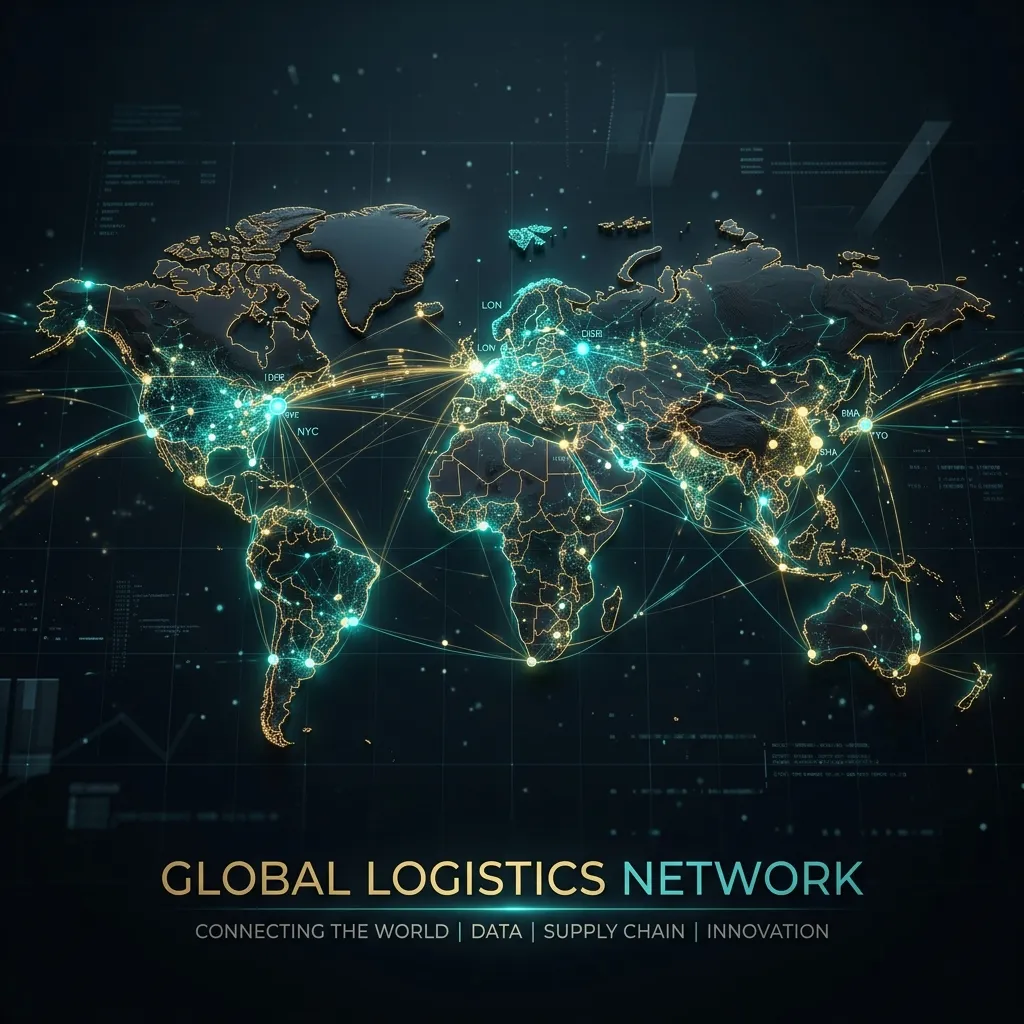
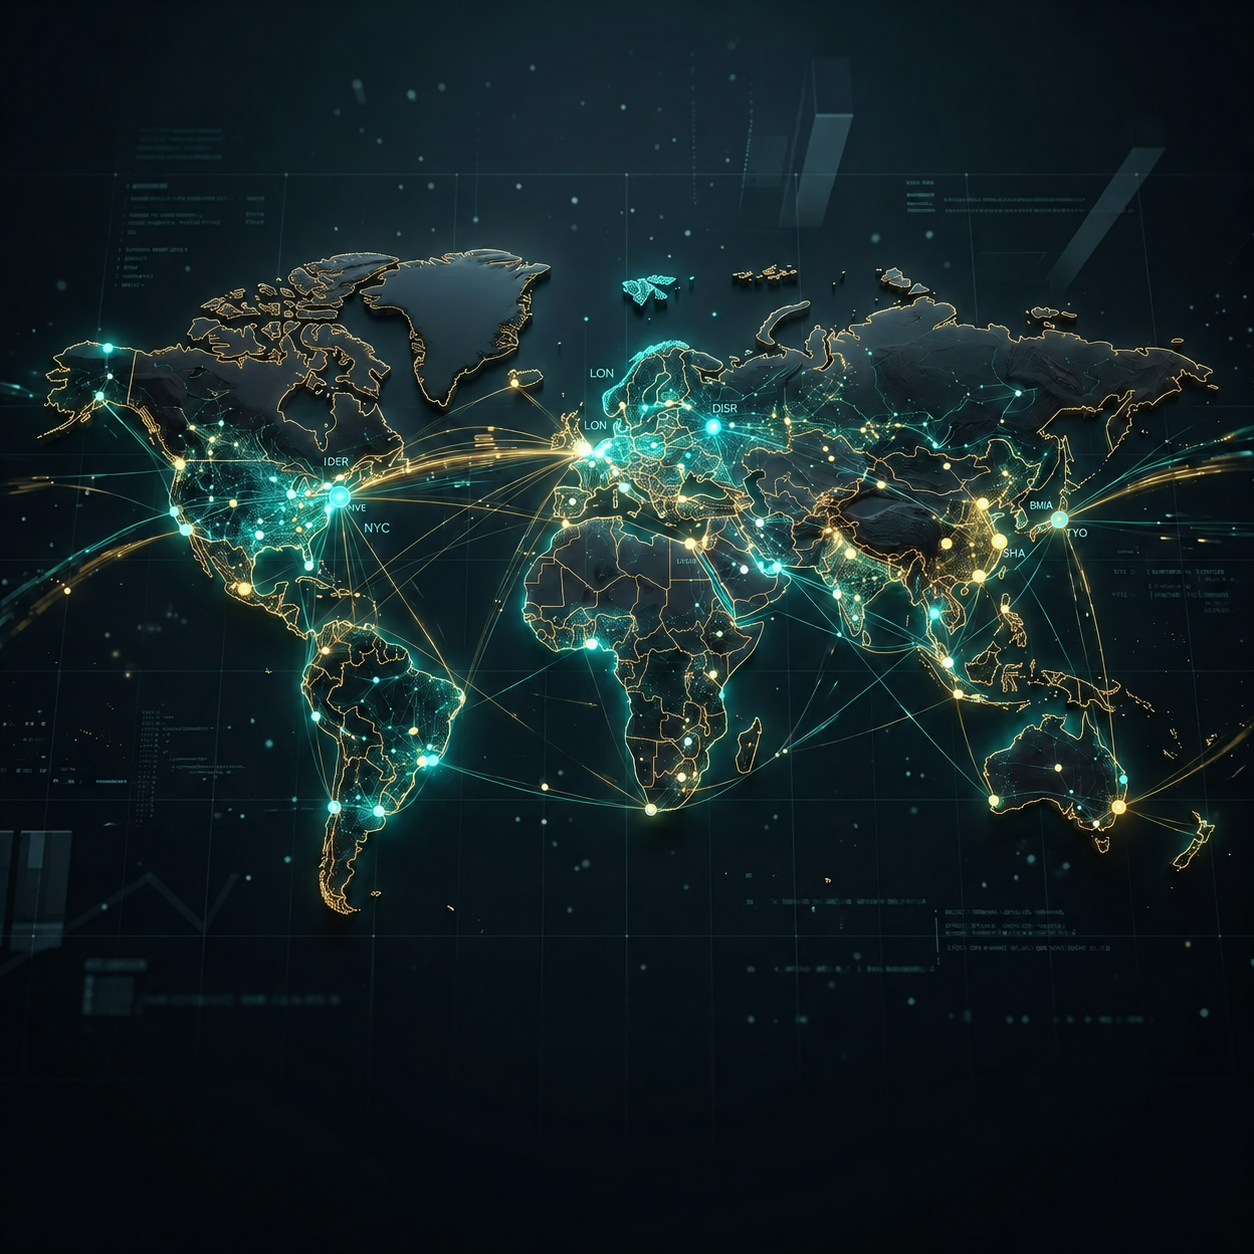
nn

diff --git a/about.html b/about.html
@@ -42,13 +42,13 @@
                 <i class="fa-solid fa-bars fs-3"></i>
             </button>
             <div class="collapse navbar-collapse" id="navbarResponsive">
-                <ul class="navbar-nav ms-auto text-uppercase py-3 py-lg-0 align-items-lg-center">
+                <ul class="navbar-nav ms-lg-4 ms-xl-5 me-auto text-uppercase py-3 py-lg-0 align-items-lg-center">
                     <li class="nav-item"><a class="nav-link" href="index.html#home" data-i18n="nav_home">Home</a></li>
                     <li class="nav-item"><a class="nav-link active" href="about.html" data-i18n="nav_about">About</a></li>
                     <li class="nav-item"><a class="nav-link" href="services.html" data-i18n="nav_services">Services</a></li>
                 </ul>
 
-                <div class="nav-actions-container d-flex flex-column flex-lg-row align-items-lg-center gap-2 mt-3 mt-lg-0 ms-lg-3">
+                <div class="nav-actions-container d-flex flex-column flex-lg-row align-items-lg-center gap-2 mt-3 mt-lg-0 ms-lg-auto">
                     <!-- Search Trigger -->
                     <a href="#" class="nav-action-btn search-trigger" title="Search">
                         <i class="fa-solid fa-magnifying-glass me-1 text-gold"></i>
@@ -119,8 +119,8 @@
     <!-- Company Overview -->
     <section class="py-5 my-4">
         <div class="container">
-            <div class="row align-items-center g-5">
-                <div class="col-lg-6 pe-lg-4">
+            <div class="row align-items-center g-5 gx-lg-5">
+                <div class="col-lg-6 pe-lg-5">
                     <h6 class="text-gold fw-bold text-uppercase tracking-wide mb-2" data-i18n="story_tag">Our Story</h6>
                     <h2 class="display-5 fw-bold text-teal mb-4" data-i18n="story_title">A Legacy of Maritime Excellence</h2>
                     <p class="text-muted fs-5 mb-4" data-i18n="story_p1">
@@ -132,9 +132,9 @@
 
                     <!-- Founder Quote Card with Photo -->
                     <div class="founder-quote-card d-flex flex-column flex-sm-row align-items-center gap-4 p-4 rounded-4 shadow-sm mt-4">
-                        <img src="assets/images/founder_yani.webp" alt="Yani Elviani, Founder & Director"
+                        <img src="img/profilYani.png" alt="Yani Elviani, Founder & Director"
                             class="rounded-3 shadow-sm object-fit-cover flex-shrink-0"
-                            style="width: 100px; height: 120px; object-position: top;">
+                            style="width: 105px; height: 125px; object-position: center;">
                         <div>
                             <p class="mb-2 text-dark fst-italic fw-medium" style="font-size: 0.95rem;" data-i18n="founder_quote">
                                 "PT. Garuda Mas Shipping build trust through precision, acting as a strategic partner for your international business growth."
@@ -146,9 +146,9 @@
                     </div>
                 </div>
 
-                <div class="col-lg-6 ps-lg-4">
+                <div class="col-lg-6 ps-lg-5 mt-5 mt-lg-0">
                     <div class="position-relative p-2 p-md-3">
-                        <div class="position-absolute top-0 end-0 w-75 h-100 bg-teal rounded-4 opacity-10 translate-middle-x mt-4 z-0"></div>
+                        <div class="position-absolute bottom-0 end-0 w-100 h-100 bg-teal rounded-4 opacity-10 z-0" style="transform: translate(12px, 12px);"></div>
                         <img src="assets/images/about_map_1778153520044.webp" alt="Garuda Mas Shipping Operations"
                             class="img-fluid rounded-4 shadow-lg position-relative z-1 w-100 object-fit-cover"
                             style="height: 460px;" loading="lazy" decoding="async">
@@ -223,9 +223,9 @@
                         <div class="stat-card-line position-absolute top-0 start-0 w-100 bg-gold transition-all"
                             style="height: 3px; transform: scaleX(0); transform-origin: center;"></div>
                         
-                        <!-- ISO Badge Seal -->
+                        <!-- ISO Badge Seal Image -->
                         <div class="iso-badge-box">
-                            <i class="fa-solid fa-award text-gold fs-2"></i>
+                            <img src="img/iso.jpg" alt="ISO 9001 Certified">
                         </div>
                         <h3 class="display-5 fw-bold text-white mb-1">ISO</h3>
                         <p class="text-gold text-uppercase tracking-wider fw-bold small mb-3" data-i18n="reach_iso">ISO 9001</p>
@@ -239,54 +239,6 @@
                         class="btn btn-outline-light btn-lg rounded-pill px-5 py-3 fw-bold text-uppercase tracking-wide border-2 hover-bg-gold transition-all"
                         style="transition: all 0.3s ease;" data-i18n="btn_partner">Partner With Us <i
                             class="fa-solid fa-arrow-right ms-2"></i></a>
-                </div>
-            </div>
-        </div>
-    </section>
-
-    <!-- Connected Nationwide / Google Maps Section -->
-    <section class="nationwide-map-section py-5 my-4" id="branches">
-        <div class="container py-4">
-            <div class="text-center mb-4" data-aos="fade-up">
-                <h6 class="text-gold fw-bold text-uppercase tracking-wide mb-2" data-i18n="nationwide_tag">Head Office & Branches</h6>
-                <h2 class="display-5 fw-bold text-teal mb-3" data-i18n="nationwide_title">Connected Nationwide</h2>
-                <p class="text-muted max-w-700 mx-auto fs-6" data-i18n="nationwide_desc">
-                    With our head office in Jakarta and branches across key cities, Garuda Mas Shipping is positioned to support your operations wherever you do business.
-                </p>
-                
-                <!-- Pill Switcher -->
-                <div class="location-pill-nav mt-4" role="tablist">
-                    <button class="location-pill-btn active" data-location="jakarta" type="button">
-                        <i class="fa-solid fa-building me-2"></i>Jakarta (HQ)
-                    </button>
-                    <button class="location-pill-btn" data-location="medan" type="button">
-                        <i class="fa-solid fa-location-dot me-2"></i>Medan
-                    </button>
-                </div>
-            </div>
-
-            <div class="row justify-content-center mt-4">
-                <div class="col-12" data-aos="zoom-in">
-                    <div class="map-container-card position-relative">
-                        <iframe id="nationwideMapIframe" class="map-iframe"
-                            src="https://maps.google.com/maps?q=Galeri%20Niaga%20Mediterania%20II%20Pantai%20Indah%20Kapuk%20Jakarta&t=&z=15&ie=UTF8&iwloc=&output=embed"
-                            allowfullscreen="" loading="lazy" referrerpolicy="no-referrer-when-downgrade">
-                        </iframe>
-
-                        <div class="map-location-overlay position-absolute bottom-0 start-0 m-3 m-md-4 p-3 p-md-4 d-flex flex-column flex-md-row align-items-start align-items-md-center justify-content-between gap-3"
-                            style="max-width: 90%; width: 550px;">
-                            <div>
-                                <h6 class="text-teal fw-bold mb-1" id="mapLocationTitle">Jakarta Head Office (HQ)</h6>
-                                <p class="text-muted small mb-0" id="mapLocationAddress">
-                                    Galeri Niaga Mediterania II, Jl. Pantai Indah Utara 2 Blok J8 L, North Jakarta 14460
-                                </p>
-                            </div>
-                            <a id="mapExternalLink" href="https://maps.app.goo.gl/EW4m8V6uoxpQNSDp7" target="_blank" rel="noopener noreferrer"
-                                class="btn btn-sm btn-gold text-nowrap rounded-pill px-3 py-2 fw-semibold">
-                                <i class="fa-solid fa-arrow-up-right-from-square me-1"></i> <span data-i18n="btn_open_maps">Open in Google Maps</span>
-                            </a>
-                        </div>
-                    </div>
                 </div>
             </div>
         </div>

diff --git a/vision-mission.html b/vision-mission.html
@@ -167,13 +167,13 @@
                 <i class="fa-solid fa-bars fs-3"></i>
             </button>
             <div class="collapse navbar-collapse" id="navbarResponsive">
-                <ul class="navbar-nav ms-auto text-uppercase py-3 py-lg-0 align-items-lg-center">
+                <ul class="navbar-nav ms-lg-4 ms-xl-5 me-auto text-uppercase py-3 py-lg-0 align-items-lg-center">
                     <li class="nav-item"><a class="nav-link" href="index.html#home" data-i18n="nav_home">Home</a></li>
                     <li class="nav-item"><a class="nav-link" href="about.html" data-i18n="nav_about">About</a></li>
                     <li class="nav-item"><a class="nav-link" href="services.html" data-i18n="nav_services">Services</a></li>
                 </ul>
 
-                <div class="nav-actions-container d-flex flex-column flex-lg-row align-items-lg-center gap-2 mt-3 mt-lg-0 ms-lg-3">
+                <div class="nav-actions-container d-flex flex-column flex-lg-row align-items-lg-center gap-2 mt-3 mt-lg-0 ms-lg-auto">
                     <!-- Search Trigger -->
                     <a href="#" class="nav-action-btn search-trigger" title="Search">
                         <i class="fa-solid fa-magnifying-glass me-1 text-gold"></i>
@@ -351,52 +351,6 @@
                             style="bottom: -20px; left: -20px; width: 120px; height: 120px; display: flex; align-items: center; justify-content: center; flex-direction: column;">
                             <i class="fa-solid fa-star fs-3 mb-1"></i>
                             <span class="fw-bold small text-uppercase">Trusted</span>
-                        </div>
-                    </div>
-                </div>
-            </div>
-        </div>
-    <!-- Connected Nationwide / Google Maps Section -->
-    <section class="nationwide-map-section py-5 my-4" id="branches">
-        <div class="container py-4">
-            <div class="text-center mb-4" data-aos="fade-up">
-                <h6 class="text-gold fw-bold text-uppercase tracking-wide mb-2" data-i18n="nationwide_tag">Head Office & Branches</h6>
-                <h2 class="display-5 fw-bold text-teal mb-3" data-i18n="nationwide_title">Connected Nationwide</h2>
-                <p class="text-muted max-w-700 mx-auto fs-6" data-i18n="nationwide_desc">
-                    With our head office in Jakarta and branches across key cities, Garuda Mas Shipping is positioned to support your operations wherever you do business.
-                </p>
-                
-                <!-- Pill Switcher -->
-                <div class="location-pill-nav mt-4" role="tablist">
-                    <button class="location-pill-btn active" data-location="jakarta" type="button">
-                        <i class="fa-solid fa-building me-2"></i>Jakarta (HQ)
-                    </button>
-                    <button class="location-pill-btn" data-location="medan" type="button">
-                        <i class="fa-solid fa-location-dot me-2"></i>Medan
-                    </button>
-                </div>
-            </div>
-
-            <div class="row justify-content-center mt-4">
-                <div class="col-12" data-aos="zoom-in">
-                    <div class="map-container-card position-relative">
-                        <iframe id="nationwideMapIframe" class="map-iframe"
-                            src="https://maps.google.com/maps?q=Galeri%20Niaga%20Mediterania%20II%20Pantai%20Indah%20Kapuk%20Jakarta&t=&z=15&ie=UTF8&iwloc=&output=embed"
-                            allowfullscreen="" loading="lazy" referrerpolicy="no-referrer-when-downgrade">
-                        </iframe>
-
-                        <div class="map-location-overlay position-absolute bottom-0 start-0 m-3 m-md-4 p-3 p-md-4 d-flex flex-column flex-md-row align-items-start align-items-md-center justify-content-between gap-3"
-                            style="max-width: 90%; width: 550px;">
-                            <div>
-                                <h6 class="text-teal fw-bold mb-1" id="mapLocationTitle">Jakarta Head Office (HQ)</h6>
-                                <p class="text-muted small mb-0" id="mapLocationAddress">
-                                    Galeri Niaga Mediterania II, Jl. Pantai Indah Utara 2 Blok J8 L, North Jakarta 14460
-                                </p>
-                            </div>
-                            <a id="mapExternalLink" href="https://maps.app.goo.gl/EW4m8V6uoxpQNSDp7" target="_blank" rel="noopener noreferrer"
-                                class="btn btn-sm btn-gold text-nowrap rounded-pill px-3 py-2 fw-semibold">
-                                <i class="fa-solid fa-arrow-up-right-from-square me-1"></i> <span data-i18n="btn_open_maps">Open in Google Maps</span>
-                            </a>
                         </div>
                     </div>
                 </div>

diff --git a/services.html b/services.html
@@ -163,13 +163,13 @@
                 <i class="fa-solid fa-bars fs-3"></i>
             </button>
             <div class="collapse navbar-collapse" id="navbarResponsive">
-                <ul class="navbar-nav ms-auto text-uppercase py-3 py-lg-0 align-items-lg-center">
+                <ul class="navbar-nav ms-lg-4 ms-xl-5 me-auto text-uppercase py-3 py-lg-0 align-items-lg-center">
                     <li class="nav-item"><a class="nav-link" href="index.html#home" data-i18n="nav_home">Home</a></li>
                     <li class="nav-item"><a class="nav-link" href="about.html" data-i18n="nav_about">About</a></li>
                     <li class="nav-item"><a class="nav-link active" href="services.html" data-i18n="nav_services">Services</a></li>
                 </ul>
 
-                <div class="nav-actions-container d-flex flex-column flex-lg-row align-items-lg-center gap-2 mt-3 mt-lg-0 ms-lg-3">
+                <div class="nav-actions-container d-flex flex-column flex-lg-row align-items-lg-center gap-2 mt-3 mt-lg-0 ms-lg-auto">
                     <!-- Search Trigger -->
                     <a href="#" class="nav-action-btn search-trigger" title="Search">
                         <i class="fa-solid fa-magnifying-glass me-1 text-gold"></i>
@@ -503,53 +503,6 @@
         </div>
     </section>
 
-    <!-- Connected Nationwide / Google Maps Section -->
-    <section class="nationwide-map-section py-5 my-4" id="branches">
-        <div class="container py-4">
-            <div class="text-center mb-4" data-aos="fade-up">
-                <h6 class="text-gold fw-bold text-uppercase tracking-wide mb-2" data-i18n="nationwide_tag">Head Office & Branches</h6>
-                <h2 class="display-5 fw-bold text-teal mb-3" data-i18n="nationwide_title">Connected Nationwide</h2>
-                <p class="text-muted max-w-700 mx-auto fs-6" data-i18n="nationwide_desc">
-                    With our head office in Jakarta and branches across key cities, Garuda Mas Shipping is positioned to support your operations wherever you do business.
-                </p>
-                
-                <!-- Pill Switcher -->
-                <div class="location-pill-nav mt-4" role="tablist">
-                    <button class="location-pill-btn active" data-location="jakarta" type="button">
-                        <i class="fa-solid fa-building me-2"></i>Jakarta (HQ)
-                    </button>
-                    <button class="location-pill-btn" data-location="medan" type="button">
-                        <i class="fa-solid fa-location-dot me-2"></i>Medan
-                    </button>
-                </div>
-            </div>
-
-            <div class="row justify-content-center mt-4">
-                <div class="col-12" data-aos="zoom-in">
-                    <div class="map-container-card position-relative">
-                        <iframe id="nationwideMapIframe" class="map-iframe"
-                            src="https://maps.google.com/maps?q=Galeri%20Niaga%20Mediterania%20II%20Pantai%20Indah%20Kapuk%20Jakarta&t=&z=15&ie=UTF8&iwloc=&output=embed"
-                            allowfullscreen="" loading="lazy" referrerpolicy="no-referrer-when-downgrade">
-                        </iframe>
-
-                        <div class="map-location-overlay position-absolute bottom-0 start-0 m-3 m-md-4 p-3 p-md-4 d-flex flex-column flex-md-row align-items-start align-items-md-center justify-content-between gap-3"
-                            style="max-width: 90%; width: 550px;">
-                            <div>
-                                <h6 class="text-teal fw-bold mb-1" id="mapLocationTitle">Jakarta Head Office (HQ)</h6>
-                                <p class="text-muted small mb-0" id="mapLocationAddress">
-                                    Galeri Niaga Mediterania II, Jl. Pantai Indah Utara 2 Blok J8 L, North Jakarta 14460
-                                </p>
-                            </div>
-                            <a id="mapExternalLink" href="https://maps.app.goo.gl/EW4m8V6uoxpQNSDp7" target="_blank" rel="noopener noreferrer"
-                                class="btn btn-sm btn-gold text-nowrap rounded-pill px-3 py-2 fw-semibold">
-                                <i class="fa-solid fa-arrow-up-right-from-square me-1"></i> <span data-i18n="btn_open_maps">Open in Google Maps</span>
-                            </a>
-                        </div>
-                    </div>
-                </div>
-            </div>
-        </div>
-    </section>
 
     <!-- Call to Action -->
     <section class="cta-section py-5 text-white">

diff --git a/assets/css/style.css b/assets/css/style.css
@@ -69,17 +69,18 @@ h1, h2, h3, h4, h5, h6, .navbar-brand {
 
 /* Navbar */
 .navbar {
-    padding: 20px 0;
+    padding: 18px 0;
     transition: all 0.4s ease;
-    background-color: transparent;
+    background-color: var(--dark-teal);
+    box-shadow: 0 4px 20px rgba(0, 0, 0, 0.08);
 }
 
 .navbar.navbar-scrolled {
-    background-color: rgba(32, 89, 106, 0.85);
+    background-color: rgba(32, 89, 106, 0.95);
     backdrop-filter: blur(12px);
     -webkit-backdrop-filter: blur(12px);
     padding: 12px 0;
-    box-shadow: 0 4px 30px rgba(0,0,0,0.1);
+    box-shadow: 0 4px 30px rgba(0,0,0,0.15);
     border-bottom: 1px solid rgba(255, 255, 255, 0.05);
 }
 
@@ -801,26 +802,32 @@ h1, h2, h3, h4, h5, h6, .navbar-brand {
 
 /* ISO Badge Seal */
 .iso-badge-box {
-    width: 75px;
-    height: 75px;
+    width: 80px;
+    height: 80px;
     border-radius: 50%;
-    background: rgba(255, 255, 255, 0.15);
+    background: #FFFFFF;
     border: 2px dashed var(--gold);
     display: inline-flex;
     align-items: center;
     justify-content: center;
     margin-bottom: 1rem;
+    padding: 6px;
+    overflow: hidden;
     transition: all 0.3s ease;
+    box-shadow: 0 4px 15px rgba(0, 0, 0, 0.15);
+}
+
+.iso-badge-box img {
+    width: 100%;
+    height: 100%;
+    object-fit: cover;
+    border-radius: 50%;
 }
 
 .stat-glass-card:hover .iso-badge-box {
-    background: var(--gold);
-    border-color: #ffffff;
-    transform: rotate(15deg) scale(1.1);
-}
-
-.stat-glass-card:hover .iso-badge-box i {
-    color: var(--primary-teal) !important;
+    border-color: var(--gold);
+    transform: scale(1.08);
+    box-shadow: 0 0 20px rgba(212, 175, 55, 0.5);
 }
 
 /* ==========================================================================

diff --git a/contact.html b/contact.html
@@ -42,13 +42,13 @@
                 <i class="fa-solid fa-bars fs-3"></i>
             </button>
             <div class="collapse navbar-collapse" id="navbarResponsive">
-                <ul class="navbar-nav ms-auto text-uppercase py-3 py-lg-0 align-items-lg-center">
+                <ul class="navbar-nav ms-lg-4 ms-xl-5 me-auto text-uppercase py-3 py-lg-0 align-items-lg-center">
                     <li class="nav-item"><a class="nav-link" href="index.html#home" data-i18n="nav_home">Home</a></li>
                     <li class="nav-item"><a class="nav-link" href="about.html" data-i18n="nav_about">About</a></li>
                     <li class="nav-item"><a class="nav-link" href="services.html" data-i18n="nav_services">Services</a></li>
                 </ul>
 
-                <div class="nav-actions-container d-flex flex-column flex-lg-row align-items-lg-center gap-2 mt-3 mt-lg-0 ms-lg-3">
+                <div class="nav-actions-container d-flex flex-column flex-lg-row align-items-lg-center gap-2 mt-3 mt-lg-0 ms-lg-auto">
                     <!-- Search Trigger -->
                     <a href="#" class="nav-action-btn search-trigger" title="Search">
                         <i class="fa-solid fa-magnifying-glass me-1 text-gold"></i>

diff --git a/index.html b/index.html
@@ -42,13 +42,13 @@
                 <i class="fa-solid fa-bars fs-3"></i>
             </button>
             <div class="collapse navbar-collapse" id="navbarResponsive">
-                <ul class="navbar-nav ms-auto text-uppercase py-3 py-lg-0 align-items-lg-center">
+                <ul class="navbar-nav ms-lg-4 ms-xl-5 me-auto text-uppercase py-3 py-lg-0 align-items-lg-center">
                     <li class="nav-item"><a class="nav-link active" href="#home" data-i18n="nav_home">Home</a></li>
                     <li class="nav-item"><a class="nav-link" href="about.html" data-i18n="nav_about">About</a></li>
                     <li class="nav-item"><a class="nav-link" href="#services" data-i18n="nav_services">Services</a></li>
                 </ul>
 
-                <div class="nav-actions-container d-flex flex-column flex-lg-row align-items-lg-center gap-2 mt-3 mt-lg-0 ms-lg-3">
+                <div class="nav-actions-container d-flex flex-column flex-lg-row align-items-lg-center gap-2 mt-3 mt-lg-0 ms-lg-auto">
                     <!-- Search Trigger -->
                     <a href="#" class="nav-action-btn search-trigger" title="Search">
                         <i class="fa-solid fa-magnifying-glass me-1 text-gold"></i>
